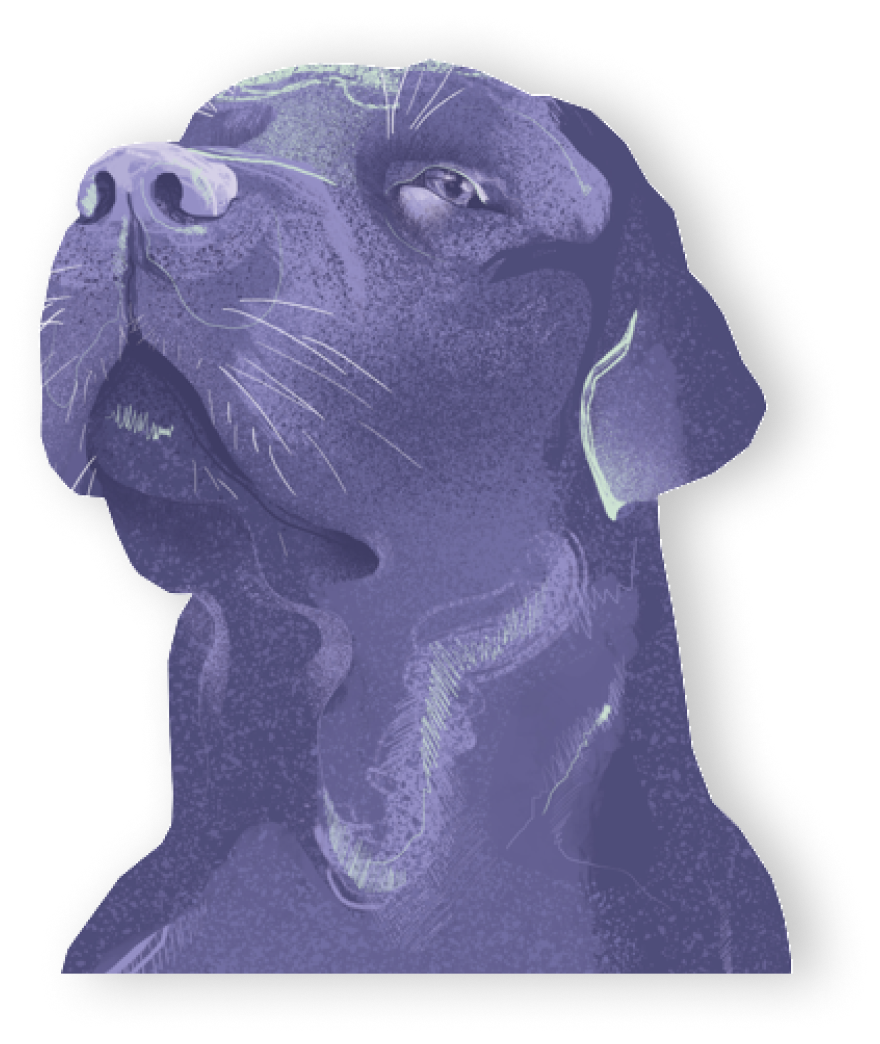
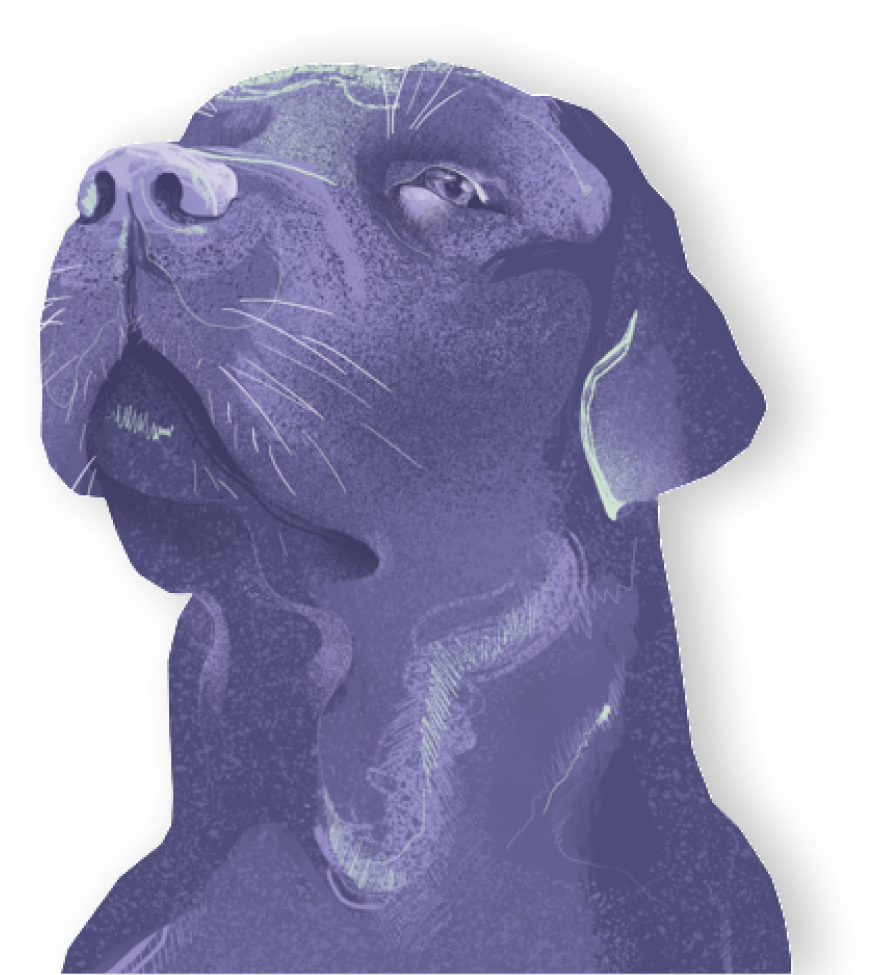
PET-70 Add parallax effect

Changed region(s): [[0.0307, 0.0615, 0.9511, 1.0], [0.6136, 0.6462, 0.7057, 0.8], [0.7364, 0.1846, 0.767, 0.2154]]

diff --git a/src/components/homepage/HeroImage/HeroImage.tsx b/src/components/homepage/HeroImage/HeroImage.tsx
@@ -1,34 +1,33 @@
 import React, { FC } from 'react';
 
 import Button from 'components/shared/Button/Button';
+import useParallax from 'hooks/useParallax';
 import logo from 'images/logo-black.svg';
 
 import ImageFactory from './ImageFactory';
 
 import * as classes from './HeroImage.module.scss';
 
-interface Props {
-  artistName?: string;
-  image: string;
-  imageTitle: string;
-}
+const HeroImage: FC = () => {
+  const imageRef = useParallax<HTMLDivElement>();
 
-const HeroImage: FC<Props> = () => (
-  <section className={classes.root}>
-    <div>
-      <img alt="Logo pet portrait" className={classes.logo} src={logo} />
-      <h1>Rzuć groszem dla zwierzaków poprzez licytację sztuki!</h1>
-      <p className={classes.text}>
-        Myślę, że warto podać zwycięski skład Kaiserslautern z meczu z Bayernem w sezonie 97/98:
-        Renke, Kadlec, H. Koch (31. Hristov), Kuka, Marschall, Ratinho (75. Reich), Roos,
-        Schjönberg, Schäfer, Sforza, M. Wagner. I jeszcze Ballack.
-      </p>
-      <Button className={classes.button} to="/licytacje">
-        Kup bilet na żyletę
-      </Button>
-    </div>
-    <ImageFactory />
-  </section>
-);
+  return (
+    <section className={classes.root}>
+      <div>
+        <img alt="Logo pet portrait" className={classes.logo} src={logo} />
+        <h1>Rzuć groszem dla zwierzaków poprzez licytację sztuki!</h1>
+        <p className={classes.text}>
+          Myślę, że warto podać zwycięski skład Kaiserslautern z meczu z Bayernem w sezonie 97/98:
+          Renke, Kadlec, H. Koch (31. Hristov), Kuka, Marschall, Ratinho (75. Reich), Roos,
+          Schjönberg, Schäfer, Sforza, M. Wagner. I jeszcze Ballack.
+        </p>
+        <Button className={classes.button} to="/licytacje">
+          Kup bilet na żyletę
+        </Button>
+      </div>
+      <ImageFactory ref={imageRef} />
+    </section>
+  );
+};
 
 export default HeroImage;

diff --git a/src/components/homepage/HeroImage/ImageFactory.tsx b/src/components/homepage/HeroImage/ImageFactory.tsx
@@ -1,28 +1,36 @@
-import React, { FC } from 'react';
+import React, { FC, forwardRef, Ref } from 'react';
 import { StaticImage } from 'gatsby-plugin-image';
 
 import * as classes from './ImageFactory.module.scss';
 
-const ImageFactory: FC = () => {
+interface Props {
+  ref: Ref<HTMLDivElement>;
+}
+
+const ImageFactory: FC<Props> = forwardRef<HTMLDivElement>((_props, ref) => {
   const imageId = 1;
 
   switch (imageId) {
     case 1:
       return (
-        <div className={classes.imageWrapper}>
-          <StaticImage
-            alt="Klaudia Polak - Bugs"
-            objectFit="contain"
-            objectPosition="bottom"
-            placeholder="blurred"
-            src="../../../images/hero-image.png"
-          />
+        <>
+          <div ref={ref} className={classes.imageWrapper}>
+            <StaticImage
+              alt="Klaudia Polak - Bugs"
+              objectFit="contain"
+              objectPosition="bottom"
+              placeholder="blurred"
+              src="../../../images/hero-image.png"
+            />
+          </div>
           <p className={classes.artist}>Klaudia Polak</p>
-        </div>
+        </>
       );
     default:
       return null;
   }
-};
+});
+
+ImageFactory.displayName = 'ImageFactory';
 
 export default ImageFactory;

diff --git a/src/hooks/useParallax.ts b/src/hooks/useParallax.ts
@@ -1,0 +1,37 @@
+import { useEffect, useRef } from 'react';
+
+const useParallax = <RefType extends HTMLElement>() => {
+  const ref = useRef<RefType>(null);
+
+  useEffect(() => {
+    const SPEED_FACTOR = 25;
+
+    const animateImage = (event: MouseEvent) => {
+      if (!ref.current) return;
+
+      const { left, top, height, width } = ref.current.getBoundingClientRect();
+
+      const centerOfImage = {
+        x: left + width / 2,
+        y: top + height / 2,
+      };
+      const dx = event.x - centerOfImage.x;
+      const dy = event.y - centerOfImage.y;
+
+      const moveX = (dx / centerOfImage.x) * SPEED_FACTOR;
+      const moveY = (dy / centerOfImage.y) * SPEED_FACTOR;
+
+      ref.current.style.transform = `translate3d(${moveX}px, ${moveY}px, 0)`;
+    };
+
+    window.addEventListener('mousemove', animateImage);
+
+    return () => {
+      window.removeEventListener('mousemove', animateImage);
+    };
+  }, []);
+
+  return ref;
+};
+
+export default useParallax;

diff --git a/src/components/homepage/HeroImage/ImageFactory.module.scss b/src/components/homepage/HeroImage/ImageFactory.module.scss
@@ -1,9 +1,5 @@
 @import 'styles/variables';
 
-.imageWrapper {
-  position: relative;
-}
-
 .artist {
   opacity: 0.5;
   transform: rotate(-90deg) translateX(100%);
@@ -12,4 +8,11 @@
   transform-origin: right;
   right: $spacing--2;
   bottom: $spacing--2;
+}
+
+.imageWrapper {
+  will-change: transform;
+  display: flex;
+  justify-content: flex-end;
+  overflow: hidden;
 }

diff --git a/src/components/homepage/Homepage.tsx b/src/components/homepage/Homepage.tsx
@@ -6,11 +6,9 @@ import HeroImage from './HeroImage/HeroImage';
 
 const Homepage: FC = () => (
   <Layout>
-    <HeroImage
-      artistName="Klaudia Polak"
-      image="../../../images/hero-image.png"
-      imageTitle="Klaudia Polak - Bugs"
-    />
+    <HeroImage />
+    {/* Simulated section */}
+    <div style={{ height: '100vh' }} />
   </Layout>
 );
 

diff --git a/.eslintrc.js b/.eslintrc.js
@@ -43,6 +43,7 @@ module.exports = {
   rules: {
     'arrow-body-style': ['error', 'as-needed'],
     'react/self-closing-comp': 'error',
+    'react/no-unused-prop-types': 'error',
     'simple-import-sort/imports': [
       'error',
       {

diff --git a/src/components/homepage/HeroImage/HeroImage.module.scss b/src/components/homepage/HeroImage/HeroImage.module.scss
@@ -8,6 +8,7 @@
   flex-direction: column;
   padding: $spacing--4 $spacing--2 0;
   background: linear-gradient(#ffffff, #d9e7da);
+  position: relative;
 
   @include breakpoint--desktop {
     display: grid;
